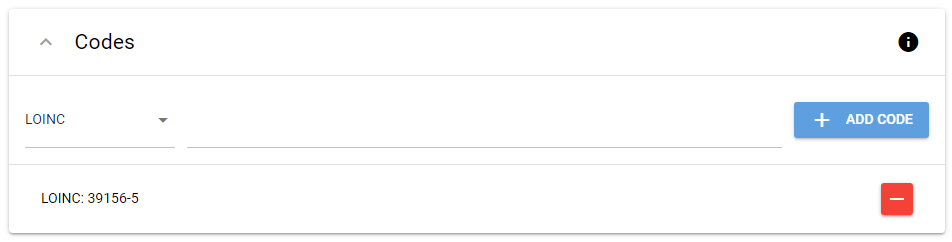
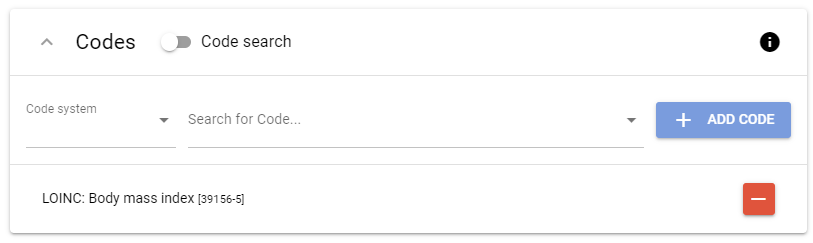
Update phenotype editor documentation (#19)
* Split description of categories and concepts

* Update forking documentation

* Update versioning documentation

* Update phenotype editor documentation

diff --git a/docs/user-manual/phenotype-editor/manipulate-entities.md b/docs/user-manual/phenotype-editor/manipulate-entities.md
@@ -23,9 +23,10 @@ On the left side of the screen you will see the tree view where all available en
 
 You can create new entities by right clicking anywhere in the tree. If you clicked on an empty space the new entity will be placed on root level. And if you clicked on a node, the new entity will be placed below this node.
 
-A right click will always open a context menu with one ore more options, depending in the item you clicked on. In the example below a right click was performed on the category "Anthropometrics", thus displayed options to create abstract phenotypes, as well as to delete the category it self.
+A right click will always open a context menu with one ore more options, depending in the item you clicked on. In the example below a right click was performed on the category "Anthropometrics", thus the menu contains options to create abstract phenotypes, as well as to delete the category it self.
 
 ![Creating an entity](../../assets/images/phenotype-editor-create.png)
+
 _Figure 1: Context menu to create a new entity._
 
 After selecting one of the proposed options, a new tab will open on the right side of the editor. Fill out the fields and provide describing metadata where applicable. When you are satisfied, click on the "Save" button to persist the entered data.
@@ -34,12 +35,17 @@ After selecting one of the proposed options, a new tab will open on the right si
 To update existing entities, just left click on the desired entity in the tree on the left side. A tab with the selected entity will be displayed on the right side. You can now modify the field values and click on "Save" to submit the modifications.
 
 ![Update a single phenotype](../../assets/images/phenotype-editor-single-phenotype.png)
+
 _Figure 2: A single phenotype that can be modified and updated by clicking "Save"._
 
 ## Delete
 As shown in figure 1, the context menu of entities in the tree on the left site contains an option to delete the selected entity. The context menu can be opened via right click. Depending on the type of the entity that will be deleted, additional entities will be affected by the delete operation.
 
-If the entity C is a category, all in C contained entities will be "moved up" in the tree (i.e., the super category of C will become the super category of entities contained in C).
+If the entity is a category, you will be asked (see figure 3) whether all contained entities should be deleted too or "moved up" in the tree (i.e., the super category of C will become the super category of entities contained in C).
+
+![Category delete confirmation](../../assets/images/phenotype-editor-delete.png)
+
+_Figure 3: Delete confirmation menu of a category._
 
 If the entity is an abstract phenotype, all restrictions on that entity will be deleted too.
 
@@ -50,21 +56,23 @@ You can always click on the info icons located at the top right of each componen
 about that component
 
 ### Expression Editor
-The Phenotype Editor has a special component to build boolean and mathematical expressions (see figure 3). You can left click parts of
+The Phenotype Editor has a special component to build boolean and mathematical expressions (see figure 4). You can left click parts of
 an expression (i.e., entities, constants and functions) to open a small context menu. In this menu you can change the type of the part
 and remove or surround it with another function. In case of entities, the context menu allows you to navigate to the definition of that
 entity.
 
 ![Adding an entity to an expression](../../assets/images/phenotype-editor-expression-input.png)
-_Figure 3: Adding an entity to an expression._
+
+_Figure 4: Adding an entity to an expression._
 
 Entities are added by selecting "Entity" as expression part. You can then enter the name or synonym of the desired entity.
 
 ![Composite phenotype with expression](../../assets/images/phenotype-editor-composite-phenotype.png)
-_Figure 4: A composite phenotype where the mathematical formula was built with the expression editor component._
+
+_Figure 5: A composite phenotype where the mathematical formula was built with the expression editor component._
 
 ### Meaning of Icons
-Throughout the application you will encounter different types of icons, each representing a specific entity type. If you have a look a figure 4, you will notice:
+Throughout the application you will encounter different types of icons, each representing a specific entity type. If you have a look at figure 5, you will notice:
 
 * the category "Anthropometrics" has a folder icon
 * the unrestricted single phenotypes "Height" and "Weight" have a numeric icon that reflects the data type of these phenotypes
@@ -73,11 +81,13 @@ Throughout the application you will encounter different types of icons, each rep
 
 ### Code Input
 At the end of each entity form, you will find a small component for specifying as many codes from standard terminologies as needed,
-such as [SNOMED CT](https://snomed.org) or [LOINC](https://loinc.org). To add a new code, select the appropriate terminology and
-enter the code in the centre. Then simply click "Add code" or press ENTER to add a new entry to the list below. Entries in the list
+such as [SNOMED CT](https://snomed.org) or [LOINC](https://loinc.org). To add a new code, start typing into the 'Search for Code...' field. You will get suggestions derived from an Ontology Lookup Service. You can also select one code system in the field 'Code system' to filter the search result. When you have finished, simply click "Add code" or press ENTER to add a new entry to the list below. Entries in the list
 can be deleted by clicking on the red minus button. Remember to save the whole form after you have made your changes.
 
 Using the ENTER key is particularly useful as it allows you to add multiple codes very quickly.
 
+In case the code system you want to search in is not provided by the Ontology Lookup Service, you can switch to manual code entry by clicking the 'Code search' switch. You then have to enter the URI of the code system and the code itself.
+
 ![Code input](../../assets/images/phenotype-editor-code-input.png)
-_Figure 5: Input component for codes from standard terminologies._
+
+_Figure 6: Input component for codes from standard terminologies._

diff --git a/docs/user-manual/phenotype-editor/versioning.md b/docs/user-manual/phenotype-editor/versioning.md
@@ -8,12 +8,22 @@ permalink: /user-manual/phenotype-editor/versioning
 ---
 
 # Versioning
-Whenever you are creating or changing an entity, a new version is created. You can see the current version of an entity on the top of the entities tab (see screenshot below).
+Whenever you are creating or changing an entity, a new version is created. You can see the current version of an entity on the top of the entities tab (see figure 1).
 
-![Version of an entity](../../assets/images/phenotype-editor-version.png)
+![Version displayed at the top of the Entity tab](../../assets/images/phenotype-editor-version.png)
 
-By clicking on the clock on the top right side, all versions of the entity are displayed. You can jump to previous versions by left clicking on one of them.
+_Figure 1: Entity version is displayed at the top of the entity tab._
+
+By clicking the clock in the top right corner, all versions of the entity are displayed. You can jump to previous versions by left clicking on one of them.
 
 ![Entity history](../../assets/images/phenotype-editor-history.png)
 
-You will enter a read-only mode of the selected version. In this mode you can examine the metadata of that version and restore it by clicking on "Restore".
+_Figure 2: Version list of the entity 'Height'._
+
+You will enter a read-only mode of the selected version. In this mode you can examine the metadata of that version and restore it by clicking the 'Restore' button.
+
+All versions of an entity can be referenced at any time by adding the version number as query parameter to the entities URL.
+
+e.g.: https://top.imise.uni-leipzig.de/imise/bmi_example/086cd9d0-3f2f-40c8-bd12-af326dfc2944?version=4 (notice the '?version=4' section at the end of the URL)
+
+If the specified version no longer exists, you will be redirected to the current version of the entity.

diff --git a/docs/user-manual/phenotype-editor/forking.md b/docs/user-manual/phenotype-editor/forking.md
@@ -13,7 +13,20 @@ Here "reusing" means that a copy of an entity from a primary repository is creat
 We call the process of creating copies in your own repositories "forking". The copy is referred to as "fork" of the originating entity.
 
 ![Creating a fork](../../assets/images/phenotype-editor-forking.png)
+
 _Figure 1: Creating a fork of an entity from a primary repository._
 
 You can create forks by searching for suitable entities in the search bar and by clicking on the copy button.
 After you have created a fork, you can modify it as needed. The fork will have its own version history, but you can anytime sync it with the originating entity.
+
+When you select an entity for forking, a menu will open as show in figure 2. In this menu you can configure the behavious of the fork.
+
+![Forking menu](../../assets/images/phenotype-editor-forking-menu.png)
+
+_Figure 2: The forking menu._
+
+If you are editing a composite phenotype and want to add a phenotype from a different repository as argument of the expression, you can use the search context menu and tick "Include primary repositories" (see figure 3). The search result will then include phenotypes of primary repositories and if you select one of these phenotypes, the forking menu will open up.
+
+![Creating a fork inside an expression](../../assets/images/phenotype-editor-forking-inside-expression.png)
+
+_Figure 3: Creating a fork of an entity from a primary repository inside an expression._

diff --git a/docs/user-manual/content-types.md b/docs/user-manual/content-types.md
@@ -65,9 +65,13 @@ You can find more information about the different entity types and the underlyin
 
 > Uciteli A, Beger C, Kirsten T, Meineke FA, Herre H. Ontological Modelling and Reasoning of Phenotypes. CEUR Workshop Proceedings. 2019 Sep;2570. issn: 1613-0073. http://ceur-ws.org/Vol-2518/paper-ODLS11.pdf.
 
-### Categories and Concepts
+### Categories
 
 Use categories to structure repositories. They are similar to folders in a file system and serve no other purpose than organising content.
+
+### Concepts
+
+TODO
 
 ### Phenotypes
 
